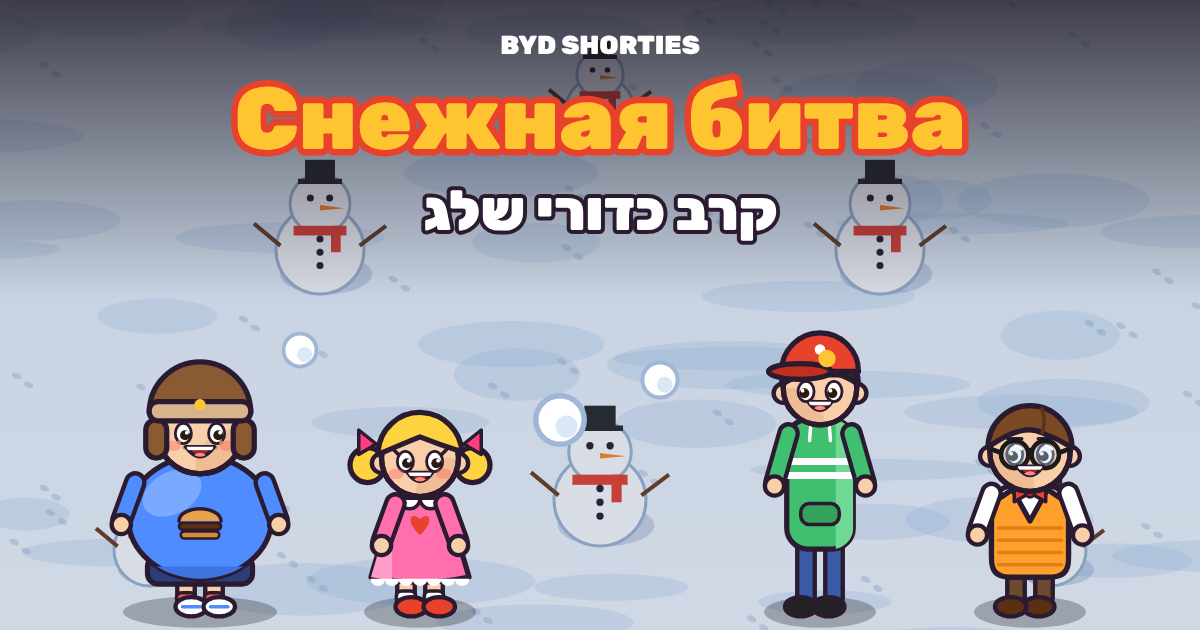
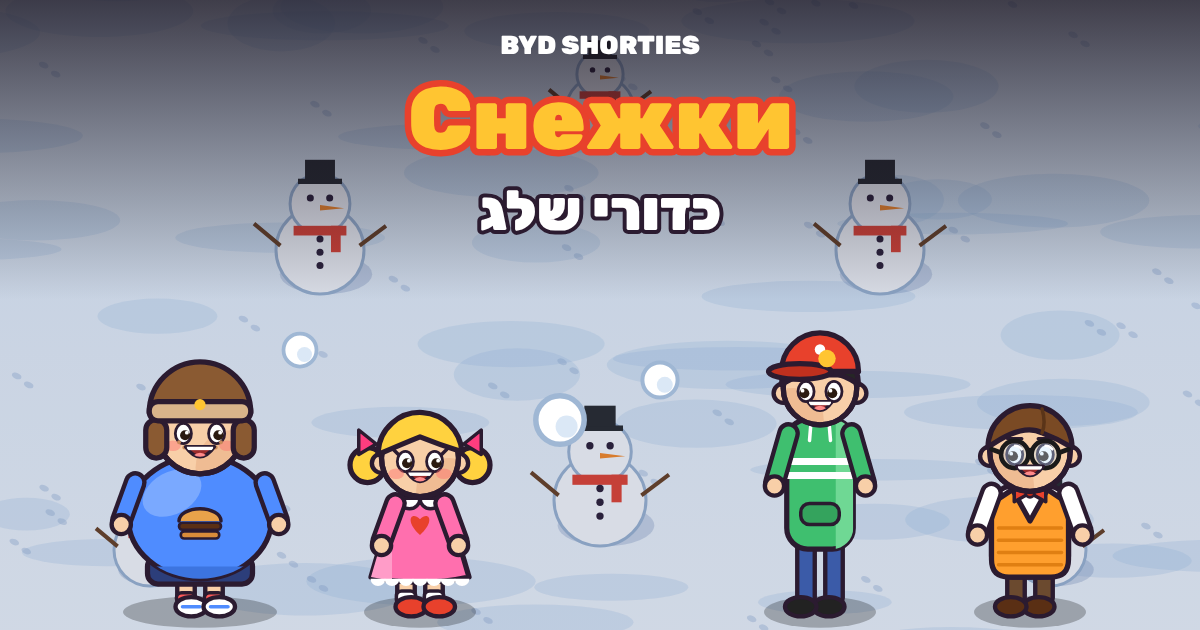
Снежная битва → Снежки
Claude-Session: https://claude.ai/code/session_01Ee1zkkg3PvpSc9RzLguxN7

Changed region(s): [[0.185, 0.1206, 0.8325, 0.2714], [0.3392, 0.3016, 0.6475, 0.3921]]

diff --git a/burger/index.html b/burger/index.html
@@ -146,9 +146,9 @@ const L={
   waitHost:'Ждём, пока организатор нажмёт «Старт»…',pick:'Выбери героя',free:'свободно',bot:'бот',you:'ты',bots:'Боты на свободных героях',start:'Старт!',full:'Комната заполнена (4 игрока).',
   inviteText:'Го в «Бургер-гонку» 🍔 Кто соберёт больше бургеров за 30 секунд? ',push:'Толкнуть',winner:n=>`${n} — чемпион!`,youWin:'Ты чемпион!',
   again:'Ещё раз',lobbyBtn:'В комнату',againHost:'Новую игру запускает организатор',go:'ВПЕРЁД!',share:'Похвастаться',
-  shareText:(n,s)=>`В «Бургер-гонке» 🍔 победил(а) ${n} — ${s} бургеров! А ты сможешь больше?`,burgers:'бург.',createOwn:'Создать свою игру',roundN:n=>`Раунд ${n}`,loc:'Локация',locs:{diner:'🍔 Бургерная',school:'🏫 Класс',soccer:'⚽ Футбол',snow:'❄ Снежки'},tipSnow:'❄ Жми «Снежок!» — летит туда, куда бежишь. Попал — +1! Прячься за снеговиками. 🌟 Золотой мега-снежок даёт +2. До 10 попаданий',pushSnow:'Снежок!',mega:'МЕГА-СНЕЖОК!',shareSnow:(n,s)=>`В «Снежной битве» ❄ ${n} попал(а) ${s} раз! Кто метче?`,tipSoccer:'⚽ Подбеги к мячу и жми «Удар!». Забей мимо вратаря! Соперников можно толкать',pushSoccer:'Удар!',goalTxt:'ГОООЛ!',saveTxt:'Сейв!',shareSoccer:(n,s)=>`В «Бомбардире» ⚽ ${n} забил(а) ${s} голов! Кто сможет больше?`,tipSchool:'🦶 Подкрадись к учителю СЗАДИ и жми 💥 — поджопник! Учитель видит всё в своём конусе: заметит — в угол!',corner:'В угол!',ouch:'Ай!',pushSchool:'Пинок!',shareSchool:(n,s)=>`В «Teacher-Beacher» 🏫 ${n} отвесил(а) учителям ${s} поджопников! 😂 А ты сможешь?`,rotate:'🔄 Поверни телефон горизонтально, так удобнее',full:'⛶ На весь экран',tip:'🍔 Подбеги к бургеру, и он съестся сам! 💥 толкает соперника',shop:'Магазин шапок',shopHint:'Шапки начинают действовать со 2-го раунда. В 1-м раунде все на равных.',buy:n=>`Купить · ${n} 🏅`,wear:'Надеть',wearing:'Надета ✓',off:'Снять',noHat:'Без шапки',back:'Назад',pickHat:'Надеть шапку на следующий раунд?',need:n=>`Нужно ${n} 🏅`,bought:'Куплено!',hats:{cap:'Кепка',ushanka:'Ушанка',top:'Цилиндр',crown:'Корона'},hatPerk:{cap:'Бегаешь на 12% быстрее',ushanka:'Тебя толкают слабее, звёздочки проходят быстрее',top:'Бургеры притягиваются: хватаешь издалека',crown:'Толкаешь сильнее, 💥 перезаряжается быстрее'},tie:'Ничья! Переигровка',out:'Вылетают',stay:'Играют дальше',nextR:'Следующий раунд через пару секунд…',medalWin:n=>`🏅 +1 медаль! Всего у тебя: ${n}`,medalHave:n=>`Твои медали: 🏅 ${n}`,watching:'👀 Ты вылетел. Смотри, кто победит!',hostGone:'Организатор вышел из игры',noRoom:'Комната не отвечает. Похоже, организатор уже закрыл игру.',ownHint:'Создай свою комнату и позови друзей. Это бесплатно.',allGames:'🎮 Все игры',mt:{diner:'Бургер-гонка',school:'Teacher-Beacher',soccer:'Бомбардир',snow:'Снежная битва'},
+  shareText:(n,s)=>`В «Бургер-гонке» 🍔 победил(а) ${n} — ${s} бургеров! А ты сможешь больше?`,burgers:'бург.',createOwn:'Создать свою игру',roundN:n=>`Раунд ${n}`,loc:'Локация',locs:{diner:'🍔 Бургерная',school:'🏫 Класс',soccer:'⚽ Футбол',snow:'❄ Снежки'},tipSnow:'❄ Жми «Снежок!» — летит туда, куда бежишь. Попал — +1! Прячься за снеговиками. 🌟 Золотой мега-снежок даёт +2. До 10 попаданий',pushSnow:'Снежок!',mega:'МЕГА-СНЕЖОК!',shareSnow:(n,s)=>`В «Снежках» ❄ ${n} попал(а) ${s} раз! Кто метче?`,tipSoccer:'⚽ Подбеги к мячу и жми «Удар!». Забей мимо вратаря! Соперников можно толкать',pushSoccer:'Удар!',goalTxt:'ГОООЛ!',saveTxt:'Сейв!',shareSoccer:(n,s)=>`В «Бомбардире» ⚽ ${n} забил(а) ${s} голов! Кто сможет больше?`,tipSchool:'🦶 Подкрадись к учителю СЗАДИ и жми 💥 — поджопник! Учитель видит всё в своём конусе: заметит — в угол!',corner:'В угол!',ouch:'Ай!',pushSchool:'Пинок!',shareSchool:(n,s)=>`В «Teacher-Beacher» 🏫 ${n} отвесил(а) учителям ${s} поджопников! 😂 А ты сможешь?`,rotate:'🔄 Поверни телефон горизонтально, так удобнее',full:'⛶ На весь экран',tip:'🍔 Подбеги к бургеру, и он съестся сам! 💥 толкает соперника',shop:'Магазин шапок',shopHint:'Шапки начинают действовать со 2-го раунда. В 1-м раунде все на равных.',buy:n=>`Купить · ${n} 🏅`,wear:'Надеть',wearing:'Надета ✓',off:'Снять',noHat:'Без шапки',back:'Назад',pickHat:'Надеть шапку на следующий раунд?',need:n=>`Нужно ${n} 🏅`,bought:'Куплено!',hats:{cap:'Кепка',ushanka:'Ушанка',top:'Цилиндр',crown:'Корона'},hatPerk:{cap:'Бегаешь на 12% быстрее',ushanka:'Тебя толкают слабее, звёздочки проходят быстрее',top:'Бургеры притягиваются: хватаешь издалека',crown:'Толкаешь сильнее, 💥 перезаряжается быстрее'},tie:'Ничья! Переигровка',out:'Вылетают',stay:'Играют дальше',nextR:'Следующий раунд через пару секунд…',medalWin:n=>`🏅 +1 медаль! Всего у тебя: ${n}`,medalHave:n=>`Твои медали: 🏅 ${n}`,watching:'👀 Ты вылетел. Смотри, кто победит!',hostGone:'Организатор вышел из игры',noRoom:'Комната не отвечает. Похоже, организатор уже закрыл игру.',ownHint:'Создай свою комнату и позови друзей. Это бесплатно.',allGames:'🎮 Все игры',mt:{diner:'Бургер-гонка',school:'Teacher-Beacher',soccer:'Бомбардир',snow:'Снежки'},
   mtag:{diner:'До 4 игроков. 7 бургеров на раунд: хватай и толкайся! Кто меньше лидера — вылетает, пока не останется один чемпион.',school:'До 4 игроков. Подкрадись к учителю сзади и отвесь поджопник! Попадёшься ему на глаза — в угол. Кто больше всех — чемпион.',soccer:'До 4 игроков. Один мяч, большие ворота и вратарь-физрук. Забей больше всех и стань чемпионом!',snow:'До 4 игроков. Снежки, снеговики-укрытия и золотой мега-снежок. Самый меткий — чемпион!'},
-  inviteM:{diner:'Го в «Бургер-гонку» 🍔 Кто соберёт больше бургеров? ',school:'Го в «Teacher-Beacher» 🏫 Кто отвесит учителям больше поджопников? ',soccer:'Го в «Бомбардир» ⚽ Кто забьёт больше голов? ',snow:'Го в «Снежную битву» ❄ Кто самый меткий? '},
+  inviteM:{diner:'Го в «Бургер-гонку» 🍔 Кто соберёт больше бургеров? ',school:'Го в «Teacher-Beacher» 🏫 Кто отвесит учителям больше поджопников? ',soccer:'Го в «Бомбардир» ⚽ Кто забьёт больше голов? ',snow:'Го в «Снежки» ❄ Кто самый меткий? '},
   other:'עברית',
   names:{girl:'Девочка',fat:'Пухляш',tall:'Длинный',nerd:'Очкарик'},
   perks:{girl:'Быстрая и ловкая',fat:'Медленный, но толкается сильнее всех',tall:'Самый быстрый, толкается слабо',nerd:'Хватает бургеры издалека'}},
@@ -158,9 +158,9 @@ const L={
   waitHost:'מחכים שהמארגן ילחץ «התחלה»…',pick:'בחרו דמות',free:'פנוי',bot:'בוט',you:'אני',bots:'בוטים על דמויות פנויות',start:'התחלה!',full:'החדר מלא (4 שחקנים).',
   inviteText:'בואו ל«מרוץ ההמבורגרים» 🍔 מי יאסוף הכי הרבה המבורגרים ב־30 שניות? ',push:'דחיפה',winner:n=>`${n} — האלוף!`,youWin:'אתה האלוף!',
   again:'עוד פעם',lobbyBtn:'לחדר',againHost:'משחק חדש מפעיל המארגן',go:'!קדימה',share:'להשוויץ',
-  shareText:(n,s)=>`ב«מרוץ ההמבורגרים» 🍔 ניצח/ה ${n} עם ${s} המבורגרים! תוכלו יותר?`,burgers:'המב׳',createOwn:'ליצור משחק משלי',roundN:n=>`סיבוב ${n}`,loc:'מקום',locs:{diner:'🍔 ההמבורגרייה',school:'🏫 הכיתה',soccer:'⚽ כדורגל',snow:'❄ כדורי שלג'},tipSnow:'❄ לחצו «כדור שלג!» — הוא עף לכיוון הריצה. פגעתם — 1+! תתחבאו מאחורי אנשי השלג. 🌟 כדור הזהב נותן 2+',pushSnow:'כדור שלג!',mega:'!מגה־כדור',shareSnow:(n,s)=>`ב«קרב כדורי שלג» ❄ ${n} פגע/ה ${s} פעמים! מי יותר מדויק?`,tipSoccer:'⚽ רוצו לכדור ולחצו «בעיטה!». תבקיעו ליד השוער! אפשר לדחוף יריבים',pushSoccer:'בעיטה!',goalTxt:'!גוללל',saveTxt:'!הצלה',shareSoccer:(n,s)=>`ב«בומברדיר» ⚽ ${n} הבקיע/ה ${s} גולים! מי יבקיע יותר?`,tipSchool:'🦶 התגנבו למורה מאחור ולחצו 💥 — בעיטה בטוסיק! המורה רואה כל מה שבתוך המשולש שלו: יראה אתכם — לפינה!',corner:'לפינה!',ouch:'אוי!',pushSchool:'בעיטה!',shareSchool:(n,s)=>`ב«Teacher-Beacher» 🏫 ${n} נתן/ה למורים ${s} בעיטות בטוסיק! 😂 תוכלו יותר?`,rotate:'🔄 סובבו את הטלפון לרוחב, ככה נוח יותר',full:'⛶ מסך מלא',tip:'🍔 רוצו אל ההמבורגר והוא נאכל לבד! 💥 דוחף יריב',shop:'חנות הכובעים',shopHint:'הכובעים פועלים מהסיבוב השני. בסיבוב הראשון כולם שווים.',buy:n=>`לקנות · ${n} 🏅`,wear:'לחבוש',wearing:'חבוש ✓',off:'להוריד',noHat:'בלי כובע',back:'חזרה',pickHat:'לחבוש כובע לסיבוב הבא?',need:n=>`צריך ${n} 🏅`,bought:'נקנה!',hats:{cap:'כובע מצחייה',ushanka:'אושנקה',top:'מגבעת',crown:'כתר'},hatPerk:{cap:'רץ מהר יותר ב־12%',ushanka:'דוחפים אותך חלש יותר, מתאושש מהר',top:'ההמבורגרים נמשכים אליך: תופס מרחוק',crown:'דוחף חזק יותר, 💥 נטען מהר'},tie:'תיקו! סיבוב נוסף',out:'יוצאים',stay:'ממשיכים לשחק',nextR:'הסיבוב הבא בעוד כמה שניות…',medalWin:n=>`🏅 +1 מדליה! סה״כ אצלך: ${n}`,medalHave:n=>`המדליות שלך: 🏅 ${n}`,watching:'👀 יצאת. תראה מי ינצח!',hostGone:'המארגן יצא מהמשחק',noRoom:'החדר לא עונה. כנראה המארגן כבר סגר את המשחק.',ownHint:'צרו חדר משלכם והזמינו חברים. זה בחינם.',allGames:'🎮 כל המשחקים',mt:{diner:'מרוץ ההמבורגרים',school:'Teacher-Beacher',soccer:'בומברדיר',snow:'קרב כדורי שלג'},
+  shareText:(n,s)=>`ב«מרוץ ההמבורגרים» 🍔 ניצח/ה ${n} עם ${s} המבורגרים! תוכלו יותר?`,burgers:'המב׳',createOwn:'ליצור משחק משלי',roundN:n=>`סיבוב ${n}`,loc:'מקום',locs:{diner:'🍔 ההמבורגרייה',school:'🏫 הכיתה',soccer:'⚽ כדורגל',snow:'❄ כדורי שלג'},tipSnow:'❄ לחצו «כדור שלג!» — הוא עף לכיוון הריצה. פגעתם — 1+! תתחבאו מאחורי אנשי השלג. 🌟 כדור הזהב נותן 2+',pushSnow:'כדור שלג!',mega:'!מגה־כדור',shareSnow:(n,s)=>`ב«כדורי שלג» ❄ ${n} פגע/ה ${s} פעמים! מי יותר מדויק?`,tipSoccer:'⚽ רוצו לכדור ולחצו «בעיטה!». תבקיעו ליד השוער! אפשר לדחוף יריבים',pushSoccer:'בעיטה!',goalTxt:'!גוללל',saveTxt:'!הצלה',shareSoccer:(n,s)=>`ב«בומברדיר» ⚽ ${n} הבקיע/ה ${s} גולים! מי יבקיע יותר?`,tipSchool:'🦶 התגנבו למורה מאחור ולחצו 💥 — בעיטה בטוסיק! המורה רואה כל מה שבתוך המשולש שלו: יראה אתכם — לפינה!',corner:'לפינה!',ouch:'אוי!',pushSchool:'בעיטה!',shareSchool:(n,s)=>`ב«Teacher-Beacher» 🏫 ${n} נתן/ה למורים ${s} בעיטות בטוסיק! 😂 תוכלו יותר?`,rotate:'🔄 סובבו את הטלפון לרוחב, ככה נוח יותר',full:'⛶ מסך מלא',tip:'🍔 רוצו אל ההמבורגר והוא נאכל לבד! 💥 דוחף יריב',shop:'חנות הכובעים',shopHint:'הכובעים פועלים מהסיבוב השני. בסיבוב הראשון כולם שווים.',buy:n=>`לקנות · ${n} 🏅`,wear:'לחבוש',wearing:'חבוש ✓',off:'להוריד',noHat:'בלי כובע',back:'חזרה',pickHat:'לחבוש כובע לסיבוב הבא?',need:n=>`צריך ${n} 🏅`,bought:'נקנה!',hats:{cap:'כובע מצחייה',ushanka:'אושנקה',top:'מגבעת',crown:'כתר'},hatPerk:{cap:'רץ מהר יותר ב־12%',ushanka:'דוחפים אותך חלש יותר, מתאושש מהר',top:'ההמבורגרים נמשכים אליך: תופס מרחוק',crown:'דוחף חזק יותר, 💥 נטען מהר'},tie:'תיקו! סיבוב נוסף',out:'יוצאים',stay:'ממשיכים לשחק',nextR:'הסיבוב הבא בעוד כמה שניות…',medalWin:n=>`🏅 +1 מדליה! סה״כ אצלך: ${n}`,medalHave:n=>`המדליות שלך: 🏅 ${n}`,watching:'👀 יצאת. תראה מי ינצח!',hostGone:'המארגן יצא מהמשחק',noRoom:'החדר לא עונה. כנראה המארגן כבר סגר את המשחק.',ownHint:'צרו חדר משלכם והזמינו חברים. זה בחינם.',allGames:'🎮 כל המשחקים',mt:{diner:'מרוץ ההמבורגרים',school:'Teacher-Beacher',soccer:'בומברדיר',snow:'כדורי שלג'},
   mtag:{diner:'עד 4 שחקנים. 7 המבורגרים בסיבוב: תופסים ודוחפים! מי שפחות מהמוביל — יוצא, עד שנשאר אלוף אחד.',school:'עד 4 שחקנים. מתגנבים למורה מאחור ונותנים בעיטה בטוסיק! המורה רואה אתכם — לפינה. מי שהכי הרבה — אלוף.',soccer:'עד 4 שחקנים. כדור אחד, שער גדול ושוער המורה להתעמלות. תבקיעו הכי הרבה ותהיו אלופים!',snow:'עד 4 שחקנים. כדורי שלג, אנשי שלג למחסה וכדור זהב מגה. המדויק ביותר — אלוף!'},
-  inviteM:{diner:'בואו ל«מרוץ ההמבורגרים» 🍔 מי יאסוף הכי הרבה? ',school:'בואו ל«Teacher-Beacher» 🏫 מי ייתן למורים הכי הרבה בעיטות? ',soccer:'בואו ל«בומברדיר» ⚽ מי יבקיע הכי הרבה? ',snow:'בואו ל«קרב כדורי שלג» ❄ מי הכי מדויק? '},
+  inviteM:{diner:'בואו ל«מרוץ ההמבורגרים» 🍔 מי יאסוף הכי הרבה? ',school:'בואו ל«Teacher-Beacher» 🏫 מי ייתן למורים הכי הרבה בעיטות? ',soccer:'בואו ל«בומברדיר» ⚽ מי יבקיע הכי הרבה? ',snow:'בואו ל«כדורי שלג» ❄ מי הכי מדויק? '},
   other:'Русский',
   names:{girl:'הילדה',fat:'השמנמן',tall:'הגבוה',nerd:'המשקפופר'},
   perks:{girl:'מהירה וזריזה',fat:'איטי, אבל דוחף הכי חזק',tall:'הכי מהיר, דוחף חלש',nerd:'תופס המבורגרים מרחוק'}}};

diff --git a/index.html b/index.html
@@ -79,7 +79,7 @@ const L={
   burger:{t:'Бургер-гонка',d:'Хватай бургеры быстрее всех и толкай соперников. Раунды на выбывание, пока не останется один чемпион.',tags:['👥 1–4 игрока + боты','⏱ 30 сек раунд','🍔 Собирай']},
   school:{t:'Teacher-Beacher',d:'Подкрадись к учителю сзади и отвесь поджопник! Попадёшься ему на глаза — в угол.',tags:['👥 1–4 игрока + боты','⏱ 30 сек раунд','🦶 Подкрадывайся']},
   soccer:{t:'Бомбардир',d:'Один мяч, большие ворота и вратарь-физрук. Отбирай мяч, бей и кричи «ГОООЛ!».',tags:['👥 1–4 игрока + боты','⏱ 45 сек раунд','⚽ Забивай']},
-  snow:{t:'Снежная битва',d:'Кидай снежки, прячься за снеговиками и хватай золотой мега-снежок на +2.',tags:['👥 1–4 игрока + боты','⏱ 40 сек раунд','❄ Целься']},
+  snow:{t:'Снежки',d:'Кидай снежки, прячься за снеговиками и хватай золотой мега-снежок на +2.',tags:['👥 1–4 игрока + боты','⏱ 40 сек раунд','❄ Целься']},
   how:'Как начать',steps:[['Выбери игру','Нажми «Играть» на любой карточке.'],['Создай комнату','Напиши имя и нажми «Создать игру».'],['Позови друзей','Кнопка WhatsApp отправит ссылку в группу. Готово!']],
   bandT:'Поделись с друзьями',bandP:'Одна ссылка на все игры. Работает на любом телефоне, планшете и компьютере.',share:'Отправить в WhatsApp',
   shareText:'🎮 BYD Shorties — короткие игры с друзьями прямо в телефоне. Без скачивания! ',made:'Сделано в B.Y.D'},
@@ -90,7 +90,7 @@ const L={
   burger:{t:'מרוץ ההמבורגרים',d:'תופסים המבורגרים הכי מהר ודוחפים יריבים. סיבובי הדחה עד שנשאר אלוף אחד.',tags:['👥 1–4 שחקנים + בוטים','⏱ סיבוב 30 שנ׳','🍔 אוספים']},
   school:{t:'Teacher-Beacher',d:'מתגנבים למורה מאחור ונותנים בעיטה בטוסיק! המורה רואה אתכם — לפינה.',tags:['👥 1–4 שחקנים + בוטים','⏱ סיבוב 30 שנ׳','🦶 מתגנבים']},
   soccer:{t:'בומברדיר',d:'כדור אחד, שער גדול והמורה להתעמלות בשער. חוטפים, בועטים וצועקים «גוללל!».',tags:['👥 1–4 שחקנים + בוטים','⏱ סיבוב 45 שנ׳','⚽ מבקיעים']},
-  snow:{t:'קרב כדורי שלג',d:'זורקים כדורי שלג, מתחבאים מאחורי אנשי שלג ותופסים את כדור הזהב לנקודה כפולה.',tags:['👥 1–4 שחקנים + בוטים','⏱ סיבוב 40 שנ׳','❄ מכוונים']},
+  snow:{t:'כדורי שלג',d:'זורקים כדורי שלג, מתחבאים מאחורי אנשי שלג ותופסים את כדור הזהב לנקודה כפולה.',tags:['👥 1–4 שחקנים + בוטים','⏱ סיבוב 40 שנ׳','❄ מכוונים']},
   how:'איך מתחילים',steps:[['בוחרים משחק','לוחצים «לשחק» על כל כרטיס.'],['יוצרים חדר','כותבים שם ולוחצים «יצירת משחק».'],['מזמינים חברים','כפתור הוואטסאפ שולח קישור לקבוצה. זהו!']],
   bandT:'שתפו עם חברים',bandP:'קישור אחד לכל המשחקים. עובד בכל טלפון, טאבלט ומחשב.',share:'לשלוח בוואטסאפ',
   shareText:'🎮 BYD Shorties — משחקים קצרים עם חברים ישר בטלפון. בלי להוריד! ',made:'נוצר ב־B.Y.D'}};

diff --git a/snow/index.html b/snow/index.html
@@ -1,10 +1,10 @@
 <!doctype html>
 <html lang="ru"><head><meta charset="utf-8"><meta name="viewport" content="width=device-width,initial-scale=1">
-<title>Снежная битва ❄ · BYD Shorties</title>
-<meta property="og:type" content="website"><meta property="og:title" content="Снежная битва ❄ · BYD Shorties"><meta property="og:description" content="Снежки, снеговики и золотой мега-снежок. До 4 игроков онлайн.">
+<title>Снежки ❄ · BYD Shorties</title>
+<meta property="og:type" content="website"><meta property="og:title" content="Снежки ❄ · BYD Shorties"><meta property="og:description" content="Снежки, снеговики и золотой мега-снежок. До 4 игроков онлайн.">
 <meta property="og:url" content="https://who-is-donky.netlify.app/snow/">
 <meta property="og:image" content="https://who-is-donky.netlify.app/snow/og.png"><meta property="og:image:width" content="1200"><meta property="og:image:height" content="630">
 <meta name="twitter:card" content="summary_large_image"><meta name="twitter:image" content="https://who-is-donky.netlify.app/snow/og.png">
 <script>location.replace('../burger/'+(location.search?location.search+'&':'?')+'loc=snow')</script>
 <style>body{background:#1b1220;color:#fff6ec;font-family:system-ui,sans-serif;display:grid;place-items:center;height:100vh;margin:0}a{color:#ffc531}</style>
-</head><body><a href="../burger/?loc=snow">Снежная битва ❄ · BYD Shorties</a></body></html>
+</head><body><a href="../burger/?loc=snow">Снежки ❄ · BYD Shorties</a></body></html>
